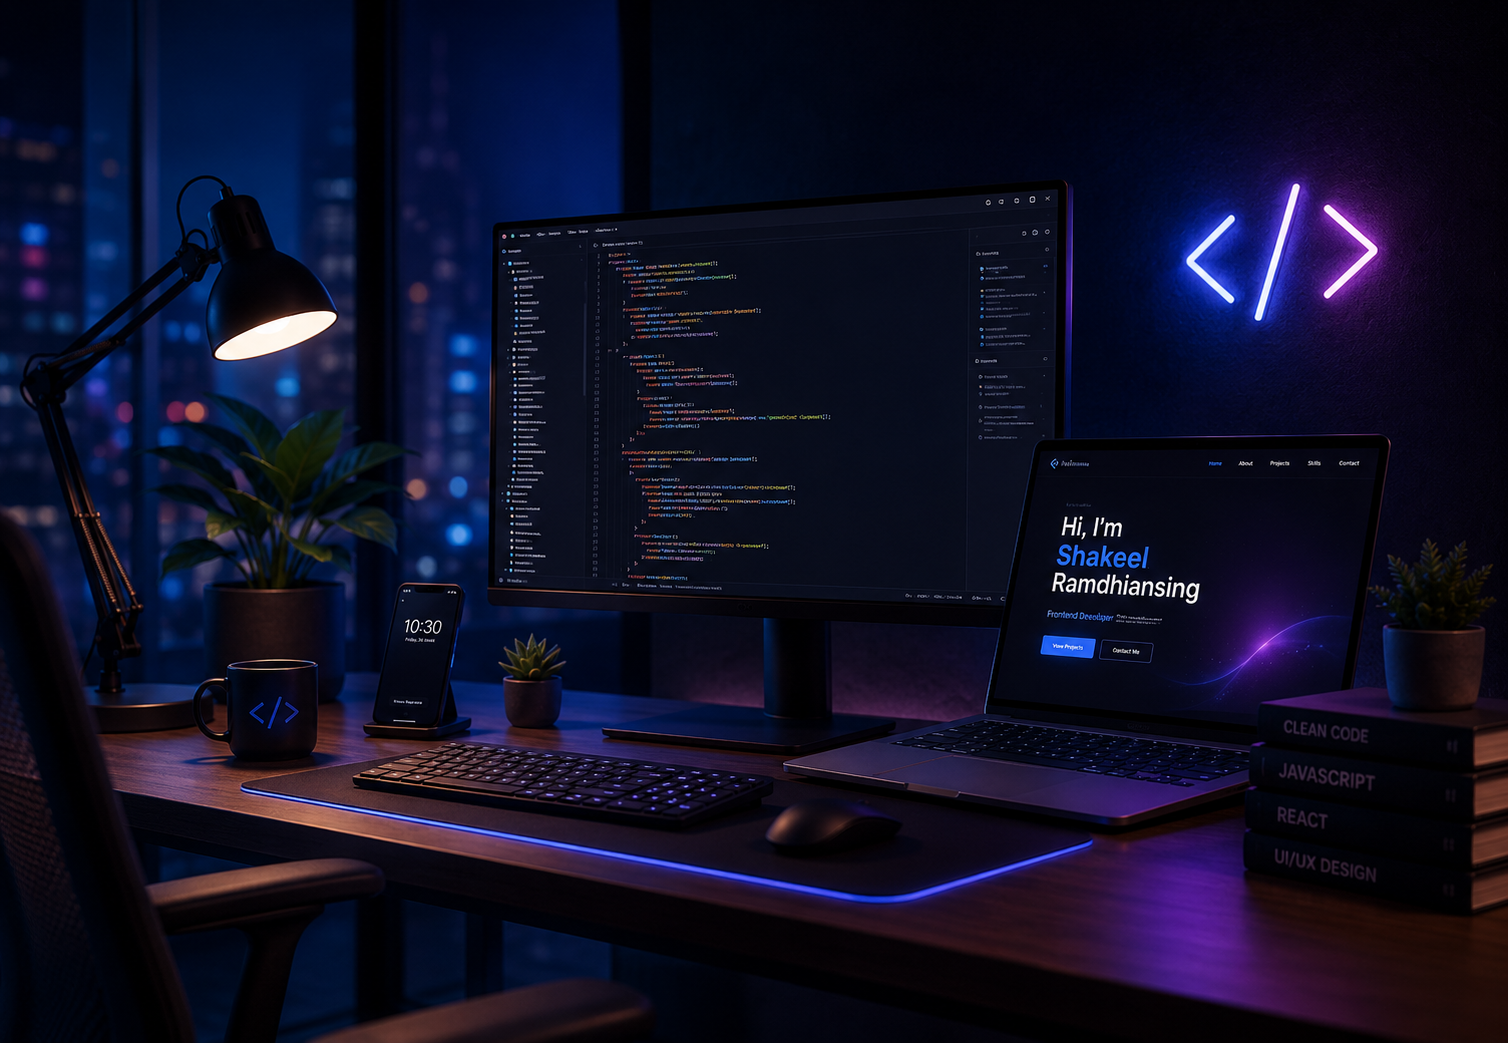
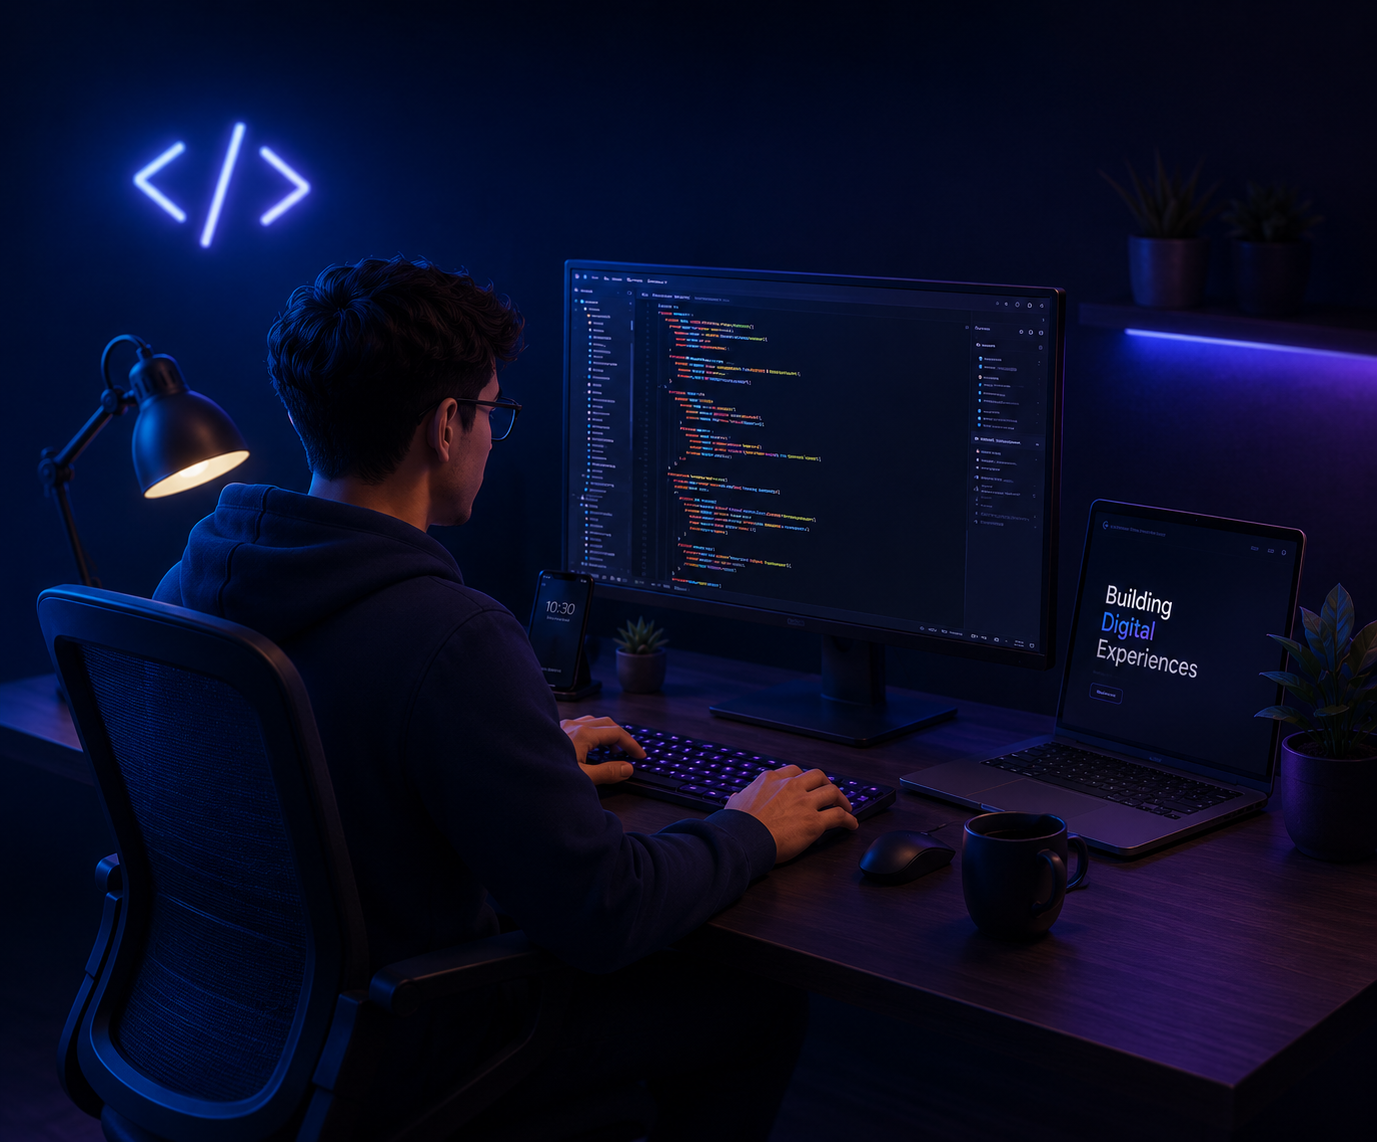
mobile friendly response

diff --git a/components/Hero/Hero.module.css b/components/Hero/Hero.module.css
@@ -1,5 +1,5 @@
 .hero {
-  min-height: 100vh;
+  min-height: 100svh;
   width: 100%;
   display: flex;
   align-items: center;
@@ -7,14 +7,19 @@
   position: relative;
   overflow: hidden;
   background: linear-gradient(135deg, #0f172a, #111827, #1e293b);
-  padding: 40px;
+  padding: 80px 24px;
 }
 
 .overlay {
   position: absolute;
   inset: 0;
-  background: radial-gradient(circle at top right, rgba(59,130,246,0.2), transparent 40%),
-              radial-gradient(circle at bottom left, rgba(168,85,247,0.2), transparent 40%);
+  background:
+    radial-gradient(circle at top right,
+      rgba(59, 130, 246, 0.2),
+      transparent 40%),
+    radial-gradient(circle at bottom left,
+      rgba(168, 85, 247, 0.2),
+      transparent 40%);
   z-index: 1;
 }
 
@@ -23,10 +28,12 @@
   z-index: 2;
   width: 100%;
   max-width: 1300px;
+
   display: flex;
   align-items: center;
   justify-content: space-between;
-  gap: 80px;
+
+  gap: 64px;
 }
 
 /* IMAGE SECTION */
@@ -38,12 +45,17 @@
 }
 
 .profileImage {
-  width: 480px;
-  height: 480px;
+  width: 100%;
+  max-width: 480px;
+  aspect-ratio: 1 / 1;
+
   object-fit: cover;
+
   border-radius: 30px;
-  border: 4px solid rgba(255,255,255,0.1);
-  box-shadow: 0 20px 60px rgba(0,0,0,0.4);
+  border: 4px solid rgba(255, 255, 255, 0.1);
+
+  box-shadow: 0 20px 60px rgba(0, 0, 0, 0.4);
+
   transition: transform 0.4s ease;
 }
 
@@ -68,7 +80,7 @@
 }
 
 .heading {
-  font-size: 5rem;
+  font-size: clamp(2.5rem, 7vw, 5rem);
   line-height: 1.1;
   font-weight: 800;
   margin-bottom: 25px;
@@ -81,9 +93,10 @@
 }
 
 .description {
-  font-size: 1.15rem;
+  font-size: clamp(1rem, 2vw, 1.15rem);
   line-height: 1.8;
   color: #cbd5e1;
+
   max-width: 600px;
   margin-bottom: 35px;
 }
@@ -91,14 +104,17 @@
 .buttons {
   display: flex;
   gap: 20px;
+  flex-wrap: wrap;
 }
 
 .primaryBtn,
 .secondaryBtn {
   padding: 14px 30px;
   border-radius: 14px;
+
   font-size: 1rem;
   font-weight: 600;
+
   cursor: pointer;
   transition: all 0.3s ease;
 }
@@ -107,7 +123,8 @@
   border: none;
   background: linear-gradient(to right, #38bdf8, #6366f1);
   color: white;
-  box-shadow: 0 10px 30px rgba(59,130,246,0.3);
+
+  box-shadow: 0 10px 30px rgba(59, 130, 246, 0.3);
 }
 
 .primaryBtn:hover {
@@ -116,12 +133,12 @@
 
 .secondaryBtn {
   background: transparent;
-  border: 1px solid rgba(255,255,255,0.2);
+  border: 1px solid rgba(255, 255, 255, 0.2);
   color: white;
 }
 
 .secondaryBtn:hover {
-  background: rgba(255,255,255,0.08);
+  background: rgba(255, 255, 255, 0.08);
 }
 
 /* ANIMATIONS */
@@ -130,6 +147,7 @@
     opacity: 0;
     transform: translateX(-80px);
   }
+
   to {
     opacity: 1;
     transform: translateX(0);
@@ -141,30 +159,71 @@
     opacity: 0;
     transform: translateX(80px);
   }
+
   to {
     opacity: 1;
     transform: translateX(0);
   }
 }
 
-/* RESPONSIVE */
+/* TABLET */
 @media (max-width: 968px) {
+  .hero {
+    padding: 60px 20px;
+  }
+
   .container {
     flex-direction: column;
     text-align: center;
-    gap: 50px;
+    gap: 48px;
   }
 
-  .heading {
-    font-size: 3.5rem;
+  .content {
+    display: flex;
+    flex-direction: column;
+    align-items: center;
+  }
+
+  .profileImage {
+    max-width: 360px;
   }
 
   .buttons {
     justify-content: center;
   }
+}
+
+/* MOBILE */
+@media (max-width: 640px) {
+  .hero {
+    padding: 40px 16px;
+  }
+
+  .container {
+    gap: 36px;
+  }
 
   .profileImage {
-    width: 280px;
-    height: 280px;
+    max-width: 260px;
+    border-radius: 22px;
+  }
+
+  .subtitle {
+    font-size: 0.85rem;
+    margin-bottom: 14px;
+  }
+
+  .description {
+    line-height: 1.6;
+  }
+
+  .buttons {
+    width: 100%;
+    flex-direction: column;
+  }
+
+  .primaryBtn,
+  .secondaryBtn {
+    width: 100%;
   }
 }

diff --git a/components/contact/contact.module.css b/components/contact/contact.module.css
@@ -113,24 +113,20 @@
 .contactCard {
   display: flex;
   align-items: center;
+  width: 80%;
+  text-decoration: none;
+cursor: pointer;
   gap: 18px;
-
-  padding: 22px;
-
+  padding: 15px;
   border-radius: 22px;
-
   background: rgba(255,255,255,0.05);
-
   border: 1px solid rgba(255,255,255,0.08);
-
   backdrop-filter: blur(14px);
-
   transition: all 0.35s ease;
 }
 
 .contactCard:hover {
   transform: translateY(-6px);
-
   box-shadow: 0 20px 40px rgba(0,0,0,0.35);
 }
 
@@ -168,31 +164,21 @@
 }
 .imageContainer {
   position: relative;
-
   width: 100%;
-  height: 650px;
-
+  height: 720px;
   overflow: hidden;
-
   border-radius: 30px;
-
   border: 1px solid rgba(255,255,255,0.08);
-
   background: rgba(255,255,255,0.05);
-
   backdrop-filter: blur(16px);
-
   box-shadow: 0 20px 50px rgba(0,0,0,0.35);
-
   animation: fadeRight 1s ease;
 }
 
 .contactImage {
   width: 100%;
   height: 100%;
-
   object-fit: cover;
-
   transition: transform 0.5s ease;
 }
 
@@ -245,6 +231,31 @@
 }
 
 @media (max-width: 600px) {
+   .left {
+    text-align: center;
+  }
+    .headingWrapper {
+      padding-bottom: 1em;
+    }
+
+  .description {
+    margin: 0 auto 40px auto;
+  }
+
+  .contactInfo {
+    align-items: center;
+  }
+
+  .contactCard {
+    width: 100%;
+    max-width: 420px;
+
+    flex-direction: row;
+    align-items: center;
+
+    text-align: left;
+  }
+
   .title {
     font-size: 2.4rem;
   }
@@ -253,13 +264,12 @@
     font-size: 1.7rem;
   }
 
-  .contactCard {
-    flex-direction: column;
-    align-items: flex-start;
-  }
-
   .icon {
     width: 50px;
     height: 50px;
+  }
+
+  .imageContainer {
+    height: 500px;
   }
 }

diff --git a/components/contact/Contact.tsx b/components/contact/Contact.tsx
@@ -29,34 +29,49 @@ const Contact = () => {
           </p>
 
           <div className={styles.contactInfo}>
-            
-            <div className={styles.contactCard}>
+
+            {/* PHONE */}
+            <a
+              href="tel:+5978685952"
+              className={styles.contactCard}
+            >
               <div className={styles.icon}>📞</div>
 
               <div>
                 <h3>Phone</h3>
                 <p>+597 868-5952</p>
               </div>
-            </div>
+            </a>
 
-            
-            <div className={styles.contactCard}>
+            {/* WHATSAPP */}
+            <a
+              href={whatsappUrl}
+              target="_blank"
+              rel="noopener noreferrer"
+              className={styles.contactCard}
+            >
               <div className={styles.icon}>🌐</div>
 
               <div>
                 <h3>WhatsApp</h3>
                 <p>+597 868-5952</p>
               </div>
-            </div>
+            </a>
 
-            <div className={styles.contactCard}>
+            {/* EMAIL */}
+            <a
+              href="mailto:shakeelramdhiansing@gmail.com"
+              className={styles.contactCard}
+            >
               <div className={styles.icon}>✉</div>
 
               <div>
                 <h3>Email</h3>
                 <p>shakeelramdhiansing@gmail.com</p>
               </div>
-            </div>
+            </a>
+
+        
           </div>
         </div>
 

diff --git a/app/layout.tsx b/app/layout.tsx
@@ -13,8 +13,8 @@ const geistMono = Geist_Mono({
 });
 
 export const metadata: Metadata = {
-  title: "Create Next App",
-  description: "Generated by create next app",
+  title: "Shakeel Ramdhiansing - Portfolio",
+  description: "Personal portfolio showcasing projects, experience and contact information of Shakeel Ramdhiansing, a frontend developer specializing in modern web development with a focus on design, performance and animations.",
 };
 
 export default function RootLayout({
